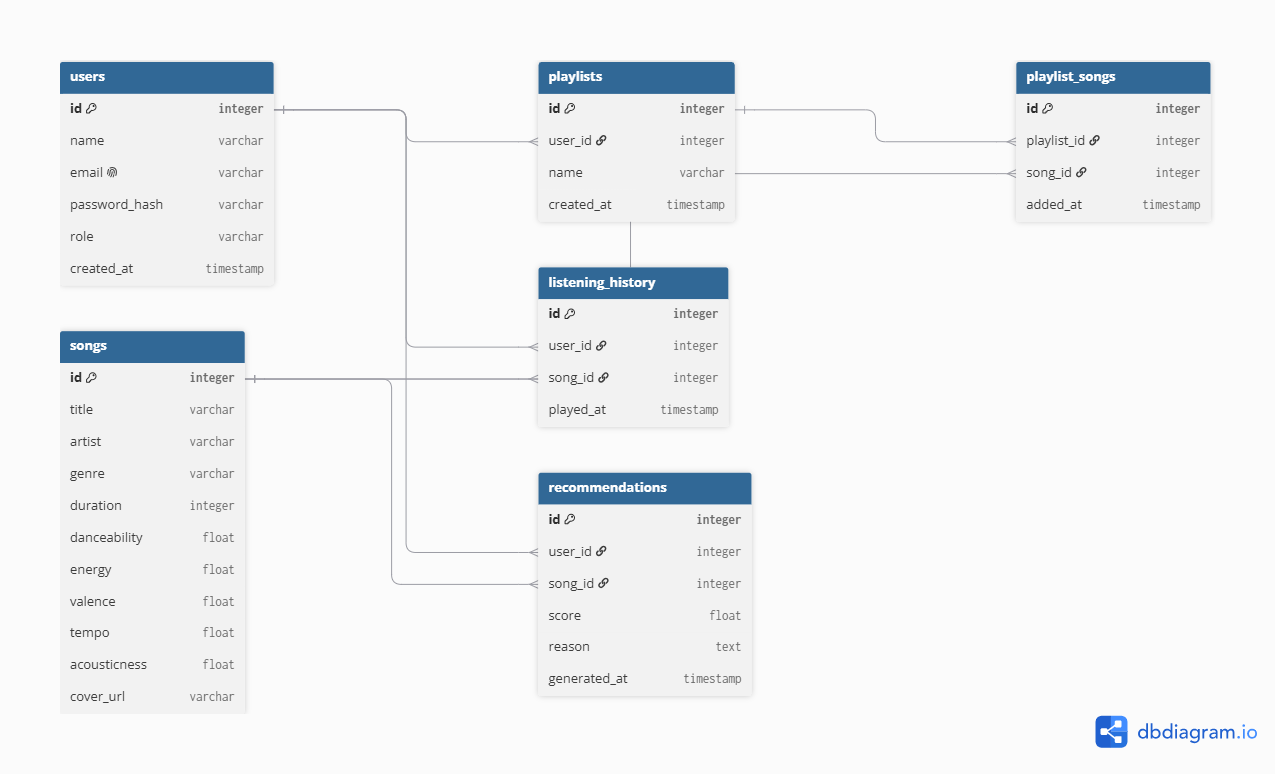
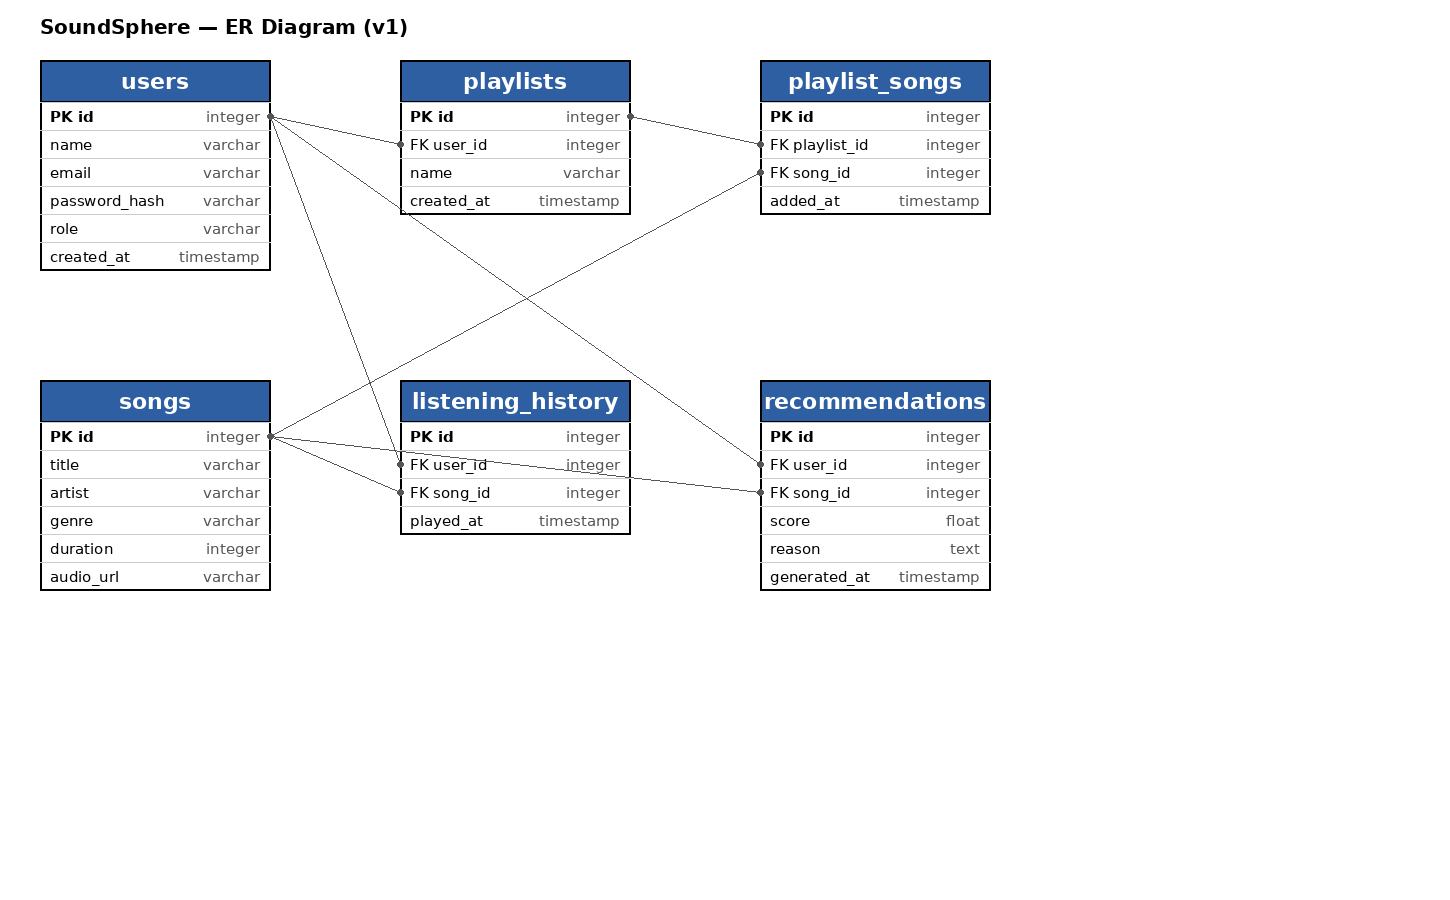
fix(diagrams): regenerate clean er diagram

diff --git a/frontend/src/pages/SongList.jsx b/frontend/src/pages/SongList.jsx
@@ -8,6 +8,7 @@ export default function SongList() {
   const [loading, setLoading] = useState(true);
   const [error, setError] = useState("");
   const [playingId, setPlayingId] = useState(null);
+  const [searchTerm, setSearchTerm] = useState("");
   const audioRef = useRef(null);
 
   useEffect(() => {
@@ -55,6 +56,15 @@ export default function SongList() {
     newAudio.onended = () => setPlayingId(null);
   };
 
+  const filteredSongs = songs.filter((song) => {
+    const term = searchTerm.toLowerCase();
+    return (
+      song.title.toLowerCase().includes(term) ||
+      song.artist.toLowerCase().includes(term) ||
+      (song.genre && song.genre.toLowerCase().includes(term))
+    );
+  });
+
   return (
     <div className="min-h-screen bg-gray-100 p-8">
       <div className="max-w-3xl mx-auto">
@@ -68,11 +78,21 @@ export default function SongList() {
           </button>
         </div>
 
+        <div className="mb-6">
+          <input
+            type="text"
+            placeholder="Search by title, artist, or genre..."
+            value={searchTerm}
+            onChange={(e) => setSearchTerm(e.target.value)}
+            className="w-full border border-gray-300 rounded-lg px-4 py-2 focus:outline-none focus:ring-2 focus:ring-blue-500 bg-white"
+          />
+        </div>
+
         {loading && <p className="text-gray-500">Loading songs...</p>}
         {error && <p className="text-red-500">{error}</p>}
 
         <div className="space-y-3">
-          {songs.map((song) => (
+          {filteredSongs.map((song) => (
             <div
               key={song.id}
               className="bg-white p-4 rounded-lg shadow-sm flex justify-between items-center hover:shadow-md transition"
@@ -100,8 +120,10 @@ export default function SongList() {
           ))}
         </div>
 
-        {!loading && songs.length === 0 && !error && (
-          <p className="text-gray-500 text-center mt-10">No songs found.</p>
+        {!loading && filteredSongs.length === 0 && !error && (
+          <p className="text-gray-500 text-center mt-10">
+            {searchTerm ? "No songs match your search." : "No songs found."}
+          </p>
         )}
       </div>
     </div>
